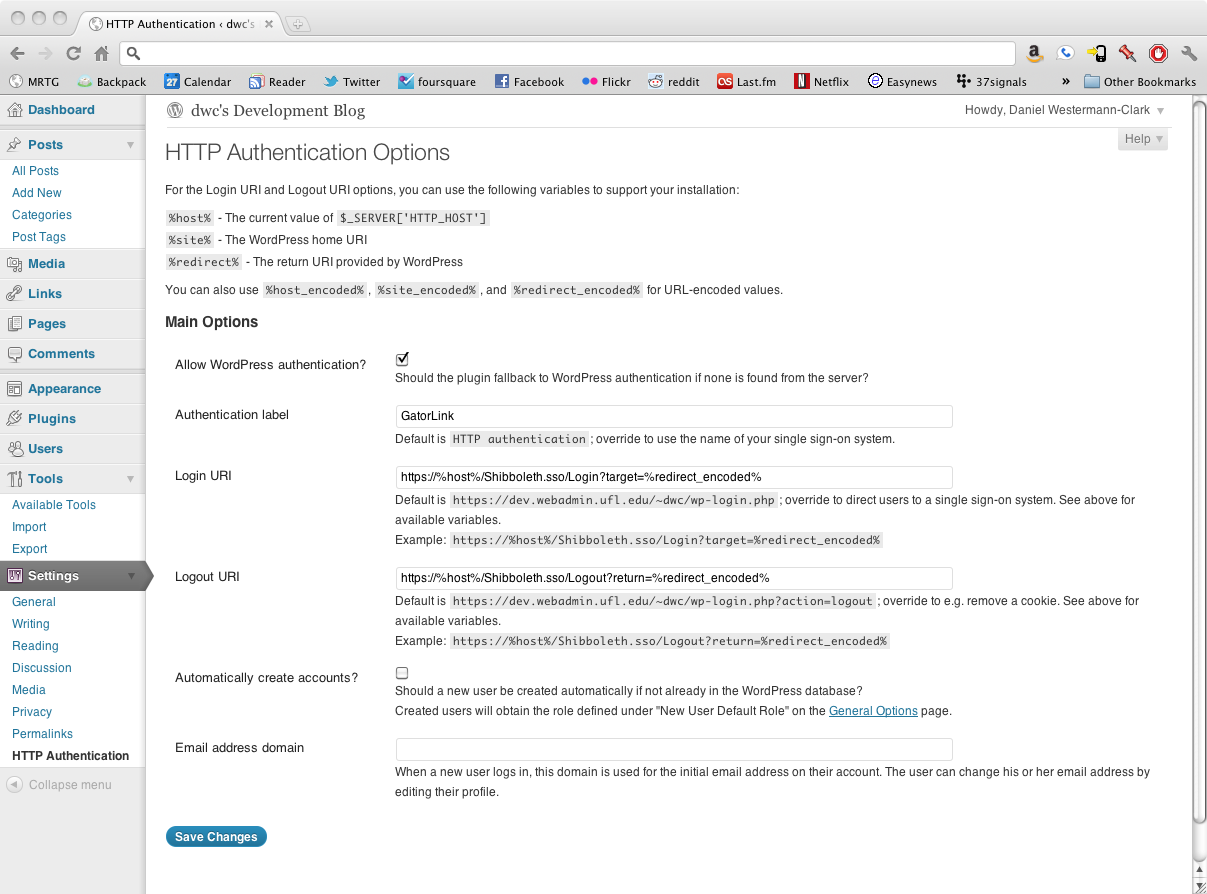
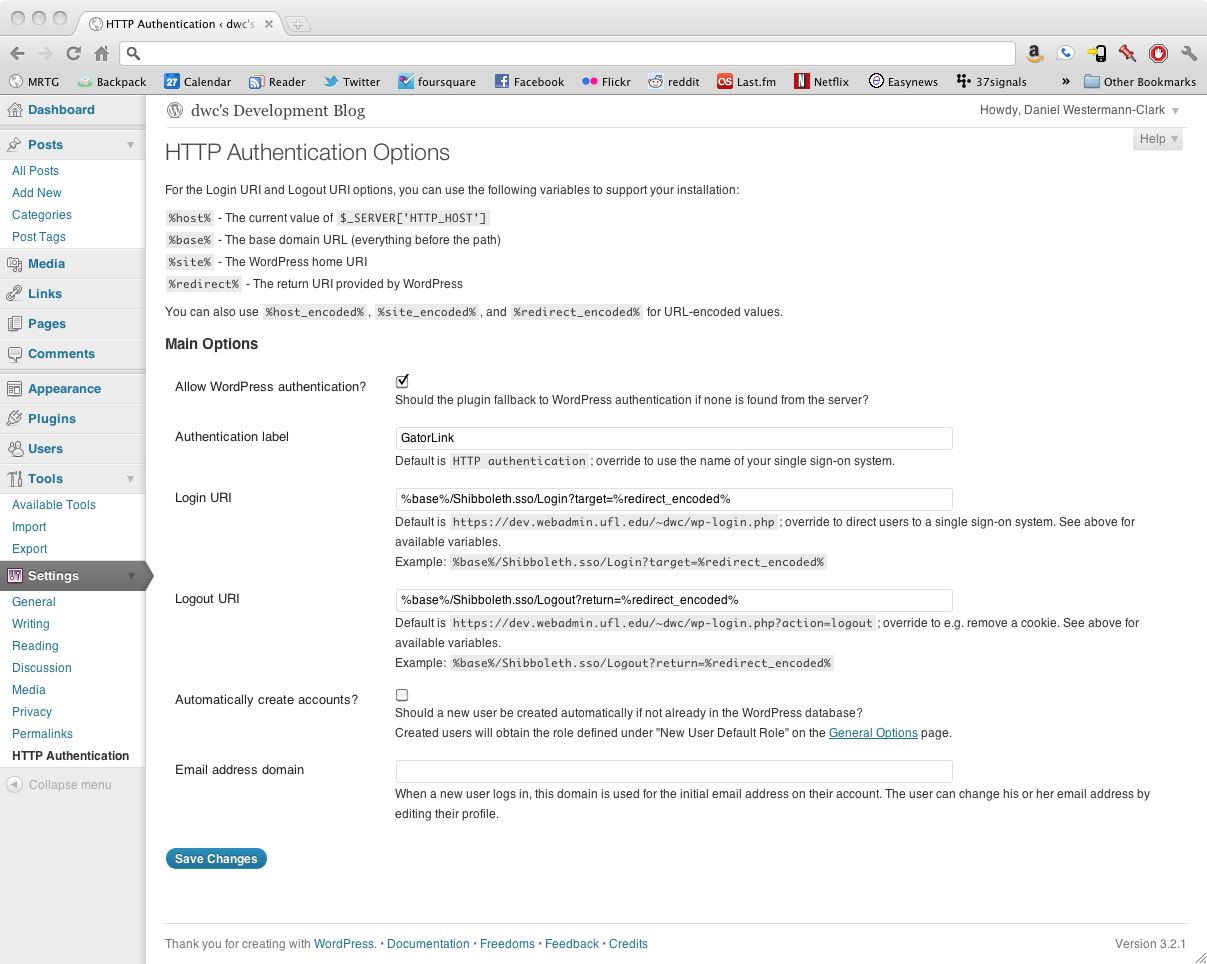
Add a base domain URL parameter

diff --git a/options-page.php b/options-page.php
@@ -63,6 +63,7 @@ class HTTPAuthenticationOptionsPage {
   <p>For the Login URI and Logout URI options, you can use the following variables to support your installation:</p>
   <ul>
     <li><code>%host%</code> - The current value of <code>$_SERVER['HTTP_HOST']</code></li>
+    <li><code>%base%</code> - The base domain URL (everything before the path)</li>
     <li><code>%site%</code> - The WordPress home URI</li>
     <li><code>%redirect%</code> - The return URI provided by WordPress</li>
   </ul>
@@ -119,7 +120,7 @@ Default is <code>HTTP authentication</code>; override to use the name of your si
 		$this->_display_input_text_field('login_uri', $login_uri);
 ?>
 Default is <code><?php echo wp_login_url(); ?></code>; override to direct users to a single sign-on system. See above for available variables.<br />
-Example: <code>https://%host%/Shibboleth.sso/Login?target=%redirect_encoded%</code>
+Example: <code>%base%/Shibboleth.sso/Login?target=%redirect_encoded%</code>
 <?php
 	}
 
@@ -131,7 +132,7 @@ Example: <code>https://%host%/Shibboleth.sso/Login?target=%redirect_encoded%</co
 		$this->_display_input_text_field('logout_uri', $logout_uri);
 ?>
 Default is <code><?php echo htmlspecialchars(remove_query_arg('_wpnonce', htmlspecialchars_decode(wp_logout_url()))); ?></code>; override to e.g. remove a cookie. See above for available variables.<br />
-Example: <code>https://%host%/Shibboleth.sso/Logout?return=%redirect_encoded%</code>
+Example: <code>%base%/Shibboleth.sso/Logout?return=%redirect_encoded%</code>
 <?php
 	}
 

diff --git a/http-authentication.php b/http-authentication.php
@@ -213,8 +213,11 @@ p#http-authentication-link {
 	 */
 	function _generate_uri($uri, $redirect_to) {
 		// Support tags for staged deployments
+		$base = $this->_get_base_url();
+
 		$tags = array(
 			'host' => $_SERVER['HTTP_HOST'],
+			'base' => $base,
 			'site' => home_url(),
 			'redirect' => $redirect_to,
 		);
@@ -230,6 +233,16 @@ p#http-authentication-link {
 		}
 
 		return $uri;
+	}
+
+	/*
+	 * Return the base domain URL based on the WordPress home URL.
+	 */
+	function _get_base_url() {
+		$home = parse_url(home_url());
+		$base = str_replace(array($home['path'], $home['query'], $home['fragment']), '', home_url());
+
+		return $base;
 	}
 }
 
